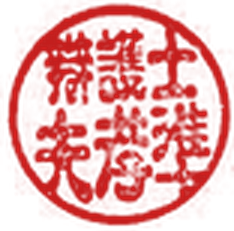
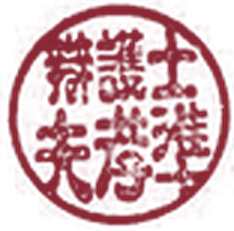
홈페이지의 붉은 색(인주색 #c5382c·어두운 화면 #e0584a)을 고려대학교 크림슨(PANTONE 202C, #862633 · 어두운 화면 #d55869)으로 교체 — index·cases·stats·case.css의 --seal 변수와 찾기창 초점 테두리, 서명 인장(seal.png)·공유 이미지(og-image.jpg)의 붉은 선 포함

diff --git a/index.html b/index.html
@@ -103,7 +103,7 @@
 <style>
 /* Layout: a client-first brief for people and companies facing an administrative disposition.
    A dark opening screen carries the three statutory deadlines; the body reads like a signed legal document
-   (left-margin section titles, paper and ink, seal red for emphasis) and closes with a signature block.
+   (left-margin section titles, paper and ink, crimson (고려대학교 크림슨) for emphasis) and closes with a signature block.
    The case board (주요 수행 사례) renders from the JSON block #cases-data (the ten most recent on the home page; cases.html lists all). */
 :root {
   --paper: #fbfbf9;
@@ -111,7 +111,7 @@
   --ink-soft: #5c6167;
   --rule: #dcdddb;
   --wash: #f0f1ee;
-  --seal: #c5382c;
+  --seal: #862633; /* 고려대학교 크림슨(PANTONE 202C) */
   --seal-blend: multiply;
   --hero-bg: #171c23;
   --hero-fg: #f3f1ec;
@@ -140,7 +140,7 @@
     --ink-soft: #a0a3a8;
     --rule: #2d2f33;
     --wash: #1c1e21;
-    --seal: #e0584a;
+    --seal: #d55869;
     --seal-blend: normal;
     --hero-bg: #0e1116;
     --hero-line: #262b33;
@@ -154,7 +154,7 @@
   --ink-soft: #a0a3a8;
   --rule: #2d2f33;
   --wash: #1c1e21;
-  --seal: #e0584a;
+  --seal: #d55869;
   --seal-blend: normal;
   --hero-bg: #0e1116;
   --hero-line: #262b33;
@@ -230,7 +230,7 @@ img { max-width: 100%; }
 
 /* ---------- header ----------
    2026. 10. 16. (Version 69): 차림표를 더 눈에 띄게 — 글자를 키우고(--step-0) 먹색으로, 가리키거나 지금 보고 있는 절의 링크에는
-   인주색 글자와 2px 밑줄. 넓은 화면에서는 머리글이 위에 붙어 따라오므로(sticky) 어디서든 바로 다른 절로 갈 수 있다. */
+   크림슨색 글자와 2px 밑줄. 넓은 화면에서는 머리글이 위에 붙어 따라오므로(sticky) 어디서든 바로 다른 절로 갈 수 있다. */
 .top {
   position: sticky;
   top: 0;
@@ -940,7 +940,7 @@ button.adv-fig:hover { border-color: var(--ink-soft); }
 
 
 /* ---------- 길잡이 (2026. 10. 16., Version 71) ---------- */
-/* 분야 칩: 누르는 것임이 보이도록 글자를 키우고 먹색으로, 가리키면 인주색 */
+/* 분야 칩: 누르는 것임이 보이도록 글자를 키우고 먹색으로, 가리키면 크림슨색 */
 .chip { padding: 0.35rem 1rem; font-size: 1rem; color: var(--ink); background: none; border: 1px solid var(--rule); border-radius: 999px; cursor: pointer; }
 .chip:hover { color: var(--seal); border-color: var(--seal); }
 .chip[aria-selected="true"] { color: var(--paper); background: var(--ink); border-color: var(--ink); }
@@ -993,7 +993,7 @@ button.adv-fig:hover { border-color: var(--ink-soft); }
 .find-head .hint { font-size: var(--step--1); color: var(--ink-soft); }
 .findbox .find { max-width: none; margin-top: 0; }
 .findbox .find input { padding: 0.55rem 1.1rem; font-size: var(--step-0); border-color: var(--ink-soft); }
-.findbox .find input:focus { border-color: var(--seal); box-shadow: 0 0 0 3px rgba(197, 56, 44, 0.14); }
+.findbox .find input:focus { border-color: var(--seal); box-shadow: 0 0 0 3px rgba(134, 38, 51, 0.14); }
 .findbox .find .btn { flex: none; }
 .findbox.compact { grid-template-columns: auto minmax(0, 1fr); align-items: center; gap: 0.75rem; padding: 0.6rem 0.8rem; }
 @media (max-width: 640px) { .findbox.compact { grid-template-columns: minmax(0, 1fr); gap: 0.4rem; } }
@@ -1039,7 +1039,7 @@ button.adv-fig:hover { border-color: var(--ink-soft); }
 }
 
 /* ---------- 분야 카드의 '주요 수행 사례 보기' 단추 (2026. 10. 16., Version 87) ----------
-   글자 링크로는 눈에 띄지 않아 카드 맨 아래 먹색 단추로. 그 분야의 사례 건수를 함께 적고, 가리키면 인주색. */
+   글자 링크로는 눈에 띄지 않아 카드 맨 아래 먹색 단추로. 그 분야의 사례 건수를 함께 적고, 가리키면 크림슨색. */
 /* 카드를 세로 flex로 바꿔 근거 법령(.ref의 margin-top:auto)과 단추가 카드 바닥에 나란히 오도록 — 한 줄의 단추 높이가 맞춰진다 */
 .situation { display: flex; flex-direction: column; }
 .situation .cases-link {
@@ -1063,7 +1063,7 @@ button.adv-fig:hover { border-color: var(--ink-soft); }
 }
 
 /* ---------- 다루는 사건 '바로 가기' 강조 (2026. 10. 16., Version 88) ----------
-   글자 링크 아홉 줄은 눈에 띄지 않아 테두리 알약 단추로. 가리키면 인주색. 넓은 화면에서는 세로로, 좁은 화면에서는 줄바꿈 가로로. */
+   글자 링크 아홉 줄은 눈에 띄지 않아 테두리 알약 단추로. 가리키면 크림슨색. 넓은 화면에서는 세로로, 좁은 화면에서는 줄바꿈 가로로. */
 .section-head .jump { gap: 0.45rem 0.5rem; margin-top: 0.9rem; }
 .section-head .jump .cap { margin-bottom: 0.15rem; }
 .section-head .jump a { display: inline-block; padding: 0.32rem 0.9rem; font-size: var(--step--1); font-weight: 500; line-height: 1.5; color: var(--ink); background: var(--paper); border: 1px solid var(--ink); border-radius: 999px; transition: background-color 0.15s ease, border-color 0.15s ease, color 0.15s ease; }
@@ -1189,7 +1189,7 @@ button.adv-fig:hover { border-color: var(--ink-soft); }
 .past-wrap .rows.dates dd .sub { margin-top: 0.15rem; font-family: var(--sans); font-weight: 400; line-height: 1.6; }
 
 /* ---------- 분야 카드 전체가 눌리는 단추처럼 (2026. 10. 18., Version 120) ----------
-   사례 단추가 눈에 띄지 않는다는 지적에: 글자에 '보기'를 넣고 화살표를 원 안에, 카드에 손을 올리면 테두리와 단추가 인주색, 카드 아무 곳을 눌러도 그 분야 사례로. */
+   사례 단추가 눈에 띄지 않는다는 지적에: 글자에 '보기'를 넣고 화살표를 원 안에, 카드에 손을 올리면 테두리와 단추가 크림슨색, 카드 아무 곳을 눌러도 그 분야 사례로. */
 .situation.linked { cursor: pointer; transition: border-color 0.15s ease, box-shadow 0.15s ease; }
 .situation.linked:hover { border-color: var(--seal); box-shadow: 0 1px 0 var(--seal); }
 .situation.linked:hover .cases-link { background: var(--seal); border-color: var(--seal); color: #fff; }

diff --git a/cases.html b/cases.html
@@ -39,7 +39,7 @@
 <style>
 /* Layout: a client-first brief for people and companies facing an administrative disposition.
    A dark opening screen carries the three statutory deadlines; the body reads like a signed legal document
-   (left-margin section titles, paper and ink, seal red for emphasis) and closes with a signature block.
+   (left-margin section titles, paper and ink, crimson (고려대학교 크림슨) for emphasis) and closes with a signature block.
    The case board (수행 사례) renders from the JSON block #cases-data; the owner edits it from the page. */
 :root {
   --paper: #fbfbf9;
@@ -47,7 +47,7 @@
   --ink-soft: #5c6167;
   --rule: #dcdddb;
   --wash: #f0f1ee;
-  --seal: #c5382c;
+  --seal: #862633; /* 고려대학교 크림슨(PANTONE 202C) */
   --seal-blend: multiply;
   --hero-bg: #171c23;
   --hero-fg: #f3f1ec;
@@ -75,7 +75,7 @@
     --ink-soft: #a0a3a8;
     --rule: #2d2f33;
     --wash: #1c1e21;
-    --seal: #e0584a;
+    --seal: #d55869;
     --seal-blend: normal;
     --hero-bg: #0e1116;
     --hero-line: #262b33;
@@ -88,7 +88,7 @@
   --ink-soft: #a0a3a8;
   --rule: #2d2f33;
   --wash: #1c1e21;
-  --seal: #e0584a;
+  --seal: #d55869;
   --seal-blend: normal;
   --hero-bg: #0e1116;
   --hero-line: #262b33;
@@ -174,7 +174,7 @@ img { max-width: 100%; }
 
 /* ---------- header ----------
    2026. 10. 16. (Version 69): 차림표를 더 눈에 띄게 — 글자를 키우고(--step-0) 먹색으로, 가리키거나 지금 보고 있는 절의 링크에는
-   인주색 글자와 2px 밑줄. 넓은 화면에서는 머리글이 위에 붙어 따라오므로(sticky) 어디서든 바로 다른 절로 갈 수 있다. */
+   크림슨색 글자와 2px 밑줄. 넓은 화면에서는 머리글이 위에 붙어 따라오므로(sticky) 어디서든 바로 다른 절로 갈 수 있다. */
 .top {
   position: sticky;
   top: 0;
@@ -867,7 +867,7 @@ button.adv-fig:hover { border-color: var(--ink-soft); }
 .loading { padding-block: 2rem; font-size: var(--step--1); color: var(--ink-soft); }
 
 /* ---------- 길잡이 (2026. 10. 16., Version 71) ---------- */
-/* 분야 칩: 누르는 것임이 보이도록 글자를 키우고 먹색으로, 가리키면 인주색 */
+/* 분야 칩: 누르는 것임이 보이도록 글자를 키우고 먹색으로, 가리키면 크림슨색 */
 .chip { padding: 0.35rem 1rem; font-size: 1rem; color: var(--ink); background: none; border: 1px solid var(--rule); border-radius: 999px; cursor: pointer; }
 .chip:hover { color: var(--seal); border-color: var(--seal); }
 .chip[aria-selected="true"] { color: var(--paper); background: var(--ink); border-color: var(--ink); }
@@ -905,7 +905,7 @@ button.adv-fig:hover { border-color: var(--ink-soft); }
 .find-head .hint { font-size: var(--step--1); color: var(--ink-soft); }
 .findbox .find { max-width: none; margin-top: 0; }
 .findbox .find input { padding: 0.55rem 1.1rem; font-size: var(--step-0); border-color: var(--ink-soft); }
-.findbox .find input:focus { border-color: var(--seal); box-shadow: 0 0 0 3px rgba(197, 56, 44, 0.14); }
+.findbox .find input:focus { border-color: var(--seal); box-shadow: 0 0 0 3px rgba(134, 38, 51, 0.14); }
 .findbox .find .btn { flex: none; }
 .findbox.compact { grid-template-columns: auto minmax(0, 1fr); align-items: center; gap: 0.5rem 0.75rem; padding: 0.6rem 0.8rem; }
 .findbox.compact .presets { grid-column: 1 / -1; }

diff --git a/case.css b/case.css
@@ -1,6 +1,6 @@
 /* Layout: a client-first brief for people and companies facing an administrative disposition.
    A dark opening screen carries the three statutory deadlines; the body reads like a signed legal document
-   (left-margin section titles, paper and ink, seal red for emphasis) and closes with a signature block.
+   (left-margin section titles, paper and ink, crimson (고려대학교 크림슨) for emphasis) and closes with a signature block.
    The case board (수행 사례) renders from the JSON block #cases-data; the owner edits it from the page. */
 :root {
   --paper: #fbfbf9;
@@ -8,7 +8,7 @@
   --ink-soft: #5c6167;
   --rule: #dcdddb;
   --wash: #f0f1ee;
-  --seal: #c5382c;
+  --seal: #862633; /* 고려대학교 크림슨(PANTONE 202C) */
   --seal-blend: multiply;
   --hero-bg: #171c23;
   --hero-fg: #f3f1ec;
@@ -36,7 +36,7 @@
     --ink-soft: #a0a3a8;
     --rule: #2d2f33;
     --wash: #1c1e21;
-    --seal: #e0584a;
+    --seal: #d55869;
     --seal-blend: normal;
     --hero-bg: #0e1116;
     --hero-line: #262b33;
@@ -49,7 +49,7 @@
   --ink-soft: #a0a3a8;
   --rule: #2d2f33;
   --wash: #1c1e21;
-  --seal: #e0584a;
+  --seal: #d55869;
   --seal-blend: normal;
   --hero-bg: #0e1116;
   --hero-line: #262b33;
@@ -135,7 +135,7 @@ img { max-width: 100%; }
 
 /* ---------- header ----------
    2026. 10. 16. (Version 69): 차림표를 더 눈에 띄게 — 글자를 키우고(--step-0) 먹색으로, 가리키거나 지금 보고 있는 절의 링크에는
-   인주색 글자와 2px 밑줄. 넓은 화면에서는 머리글이 위에 붙어 따라오므로(sticky) 어디서든 바로 다른 절로 갈 수 있다. */
+   크림슨색 글자와 2px 밑줄. 넓은 화면에서는 머리글이 위에 붙어 따라오므로(sticky) 어디서든 바로 다른 절로 갈 수 있다. */
 .top {
   position: sticky;
   top: 0;
@@ -828,7 +828,7 @@ button.adv-fig:hover { border-color: var(--ink-soft); }
 .loading { padding-block: 2rem; font-size: var(--step--1); color: var(--ink-soft); }
 
 /* ---------- 길잡이 (2026. 10. 16., Version 71) ---------- */
-/* 분야 칩: 누르는 것임이 보이도록 글자를 키우고 먹색으로, 가리키면 인주색 */
+/* 분야 칩: 누르는 것임이 보이도록 글자를 키우고 먹색으로, 가리키면 크림슨색 */
 .chip { padding: 0.35rem 1rem; font-size: 1rem; color: var(--ink); background: none; border: 1px solid var(--rule); border-radius: 999px; cursor: pointer; }
 .chip:hover { color: var(--seal); border-color: var(--seal); }
 .chip[aria-selected="true"] { color: var(--paper); background: var(--ink); border-color: var(--ink); }
@@ -866,7 +866,7 @@ button.adv-fig:hover { border-color: var(--ink-soft); }
 .find-head .hint { font-size: var(--step--1); color: var(--ink-soft); }
 .findbox .find { max-width: none; margin-top: 0; }
 .findbox .find input { padding: 0.55rem 1.1rem; font-size: var(--step-0); border-color: var(--ink-soft); }
-.findbox .find input:focus { border-color: var(--seal); box-shadow: 0 0 0 3px rgba(197, 56, 44, 0.14); }
+.findbox .find input:focus { border-color: var(--seal); box-shadow: 0 0 0 3px rgba(134, 38, 51, 0.14); }
 .findbox .find .btn { flex: none; }
 .findbox.compact { grid-template-columns: auto minmax(0, 1fr); align-items: center; gap: 0.5rem 0.75rem; padding: 0.6rem 0.8rem; }
 .findbox.compact .presets { grid-column: 1 / -1; }

diff --git a/stats.html b/stats.html
@@ -13,16 +13,16 @@
 /* 방문 통계 — 본인만 보는 페이지. 홈페이지(index.html)와 같은 종이·먹·인주 색을 쓴다.
    숫자는 Google Analytics에서 Apps Script 창구(ENDPOINT)를 거쳐 받아오고, 창구가 비어 있으면 견본 숫자를 보여 준다. */
 :root {
-  --paper: #fbfbf9; --ink: #1a1d21; --ink-soft: #5c6167; --rule: #dcdddb; --wash: #f0f1ee; --seal: #c5382c;
+  --paper: #fbfbf9; --ink: #1a1d21; --ink-soft: #5c6167; --rule: #dcdddb; --wash: #f0f1ee; --seal: #862633; /* 고려대학교 크림슨(PANTONE 202C) */
   --bar: #2f3640; --bar-soft: #c9ccd1;
   --serif: "Noto Serif KR", "Noto Serif CJK KR", "Nanum Myeongjo", "AppleMyungjo", "Batang", serif;
   --sans: "Noto Sans KR", "Noto Sans CJK KR", "Apple SD Gothic Neo", "Malgun Gothic", system-ui, sans-serif;
   --gutter: clamp(1rem, 4vw, 3rem);
 }
 @media (prefers-color-scheme: dark) {
-  :root:not([data-theme="light"]) { --paper: #141517; --ink: #e9e8e4; --ink-soft: #a0a3a8; --rule: #2d2f33; --wash: #1c1e21; --seal: #e0584a; --bar: #d6d8dc; --bar-soft: #44474d; color-scheme: dark; }
+  :root:not([data-theme="light"]) { --paper: #141517; --ink: #e9e8e4; --ink-soft: #a0a3a8; --rule: #2d2f33; --wash: #1c1e21; --seal: #d55869; --bar: #d6d8dc; --bar-soft: #44474d; color-scheme: dark; }
 }
-:root[data-theme="dark"] { --paper: #141517; --ink: #e9e8e4; --ink-soft: #a0a3a8; --rule: #2d2f33; --wash: #1c1e21; --seal: #e0584a; --bar: #d6d8dc; --bar-soft: #44474d; color-scheme: dark; }
+:root[data-theme="dark"] { --paper: #141517; --ink: #e9e8e4; --ink-soft: #a0a3a8; --rule: #2d2f33; --wash: #1c1e21; --seal: #d55869; --bar: #d6d8dc; --bar-soft: #44474d; color-scheme: dark; }
 *, *::before, *::after { box-sizing: border-box; }
 body { margin: 0; background: var(--paper); color: var(--ink); font-family: var(--sans); font-size: 1rem; line-height: 1.6; word-break: keep-all; overflow-wrap: anywhere; -webkit-font-smoothing: antialiased; }
 .page { max-width: 64rem; margin-inline: auto; padding: 1.2rem var(--gutter) 4rem; }
